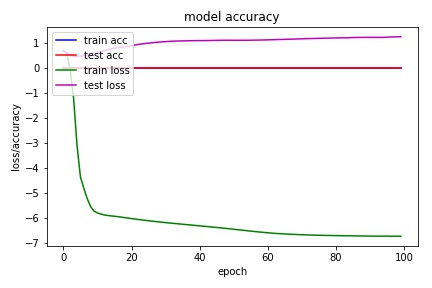
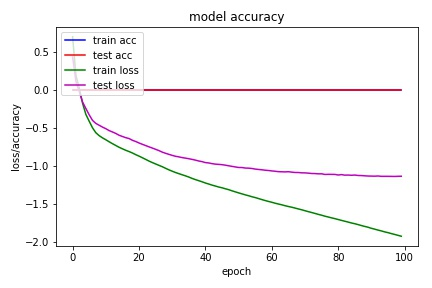
data processing

diff --git a/AutoEncoderMyData/myAE.py b/AutoEncoderMyData/myAE.py
@@ -4,16 +4,17 @@ from keras.regularizers import L1L2
 import pandas as pd
 import glob
 import numpy as np
+from scipy import stats
 from sklearn.preprocessing import StandardScaler
 from sklearn.model_selection import train_test_split
 import matplotlib.pyplot as plt
 
 # this is the size of our encoded representations
-encoding_dim = 960  # 32 floats -> compression of factor 24.5, assuming the input is 784 floats
+encoding_dim = 76  # 76 floats -> compression of factor 21, assuming the input is 1596 floats
 lambda_l1 = 0.00001
 
 # this is our input placeholder
-input_img = Input(shape=(3923, 57, 1))
+input_img = Input(shape=(28, 57, 1))
 flat_img = Flatten()(input_img)
 # "encoded" is the encoded representation of the input
 x = Dense(encoding_dim*3, activation='relu')(flat_img)
@@ -24,8 +25,8 @@ encoded = Dense(encoding_dim, activation='linear', activity_regularizer=L1L2(lam
 input_encoded = Input(shape=(encoding_dim,))
 x = Dense(encoding_dim*2, activation='relu')(input_encoded)
 x = Dense(encoding_dim*3, activation='relu')(x)
-flat_decoded = Dense(223611, activation='sigmoid')(x)
-decoded = Reshape((3923, 57, 1))(flat_decoded)
+flat_decoded = Dense(1596, activation='sigmoid')(x)
+decoded = Reshape((28, 57, 1))(flat_decoded)
 
 # this model maps an input to its encoded representation
 encoder = Model(input_img, encoded)
@@ -38,46 +39,42 @@ autoencoder = Model(input_img, decoder(encoder(input_img)))
 
 autoencoder.compile(optimizer='adam', loss='binary_crossentropy', metrics=['accuracy'])
 
+
+
+#DATA LOADING
 filenames = glob.glob('../myTrainingData/featuresOrig_*.csv')
 
 totalData = pd.DataFrame()
     
 for item in filenames:
-    # Load current dataset
     url = item
-    #choose only accelerometer data
     data = pd.read_csv(url, header = 0, engine='python')
     totalData = pd.concat([totalData, data], ignore_index=True)
 
 totalData = totalData.sort_values(['user'], ascending = 1)
 
-totalData.set_index(keys=['user'], drop=False,inplace=True)
-labels=totalData['user'].unique().tolist()
-
-usersData = {}
-usersDataLen = []
-
-for i in labels:
-     usersData["user{0}".format(i)] = totalData.loc[totalData.user==i]
-
-     usersDataLen.append(usersData["user{0}".format(i)].shape[0])
-     
-minUserSamples = min(usersDataLen)
-segments = []
 sc = StandardScaler()
 
-for i in labels:
-    usersData["user{0}".format(i)] = usersData["user{0}".format(i)].head(n=minUserSamples)
-    usersData["user{0}".format(i)] = sc.fit_transform(usersData["user{0}".format(i)])
+numRows = 28
+step = 10
+segments = []
+labels = []
 
-    segments.append(np.array(usersData["user{0}".format(i)][:,:-1]))
+for i in range(0, len(totalData) - numRows, step):
+    label = stats.mode(totalData['user'][i: i + numRows])[0][0]
+    segments.append(np.array(sc.fit_transform(totalData.iloc[i: i + numRows,:-1])))
+    labels.append(label)
+    
+segments = np.asarray(segments, dtype= np.float32)
+labels = np.asarray(labels, dtype= np.float32)
 
-labels = np.asarray(pd.get_dummies(labels), dtype = np.float32)
+
+
 
 x_train, x_test, y_train, y_test = train_test_split(segments, labels, test_size=0.2)
 
-x_train = np.reshape(x_train, (len(x_train), 3923, 57, 1))
-x_test  = np.reshape(x_test,  (len(x_test),  3923, 57, 1))
+x_train = np.reshape(x_train, (len(x_train), 28, 57, 1))
+x_test  = np.reshape(x_test,  (len(x_test),  28, 57, 1))
 print(x_train.shape)
 print(x_test.shape)
 

diff --git a/AutoEncoderMyData/dataProcessingForAE.py b/AutoEncoderMyData/dataProcessingForAE.py
@@ -2,6 +2,7 @@ import pandas as pd
 import glob
 import numpy as np
 from sklearn.preprocessing import StandardScaler
+from scipy import stats
 
 filenames = glob.glob('../myTrainingData/featuresOrig_*.csv')
 
@@ -16,25 +17,39 @@ for item in filenames:
 
 totalData = totalData.sort_values(['user'], ascending = 1)
 
-totalData.set_index(keys=['user'], drop=False,inplace=True)
-labels=totalData['user'].unique().tolist()
-
-usersData = {}
-usersDataLen = []
-
-for i in labels:
-     usersData["user{0}".format(i)] = totalData.loc[totalData.user==i]
-
-     usersDataLen.append(usersData["user{0}".format(i)].shape[0])
-     
-minUserSamples = min(usersDataLen)
-segments = []
+#totalData.set_index(keys=['user'], drop=False,inplace=True)
+#labels=totalData['user'].unique().tolist()
+#
+#usersData = {}
+#usersDataLen = []
+#
+#for i in labels:
+#     usersData["user{0}".format(i)] = totalData.loc[totalData.user==i]
+#
+#     usersDataLen.append(usersData["user{0}".format(i)].shape[0])
+#     
+#minUserSamples = min(usersDataLen)
+#segments = []
+#sc = StandardScaler()
+#
+#for i in labels:
+#    usersData["user{0}".format(i)] = usersData["user{0}".format(i)].head(n=minUserSamples)
+#    usersData["user{0}".format(i)] = sc.fit_transform(usersData["user{0}".format(i)])
+#
+#    segments.append(np.array(usersData["user{0}".format(i)][:,:-1]))
+#
+#labels = np.asarray(pd.get_dummies(labels), dtype = np.float32)
 sc = StandardScaler()
 
-for i in labels:
-    usersData["user{0}".format(i)] = usersData["user{0}".format(i)].head(n=minUserSamples)
-    usersData["user{0}".format(i)] = sc.fit_transform(usersData["user{0}".format(i)])
+numRows = 57
+step = 20
+segments = []
+labels = []
 
-    segments.append(np.array(usersData["user{0}".format(i)][:,:-1]))
-
-labels = np.asarray(pd.get_dummies(labels), dtype = np.float32)
+for i in range(0, len(totalData) - numRows, step):
+    label = stats.mode(totalData['user'][i: i + numRows])[0][0]
+    segments.append(np.array(sc.fit_transform(totalData.iloc[i: i + numRows,:-1])))
+    labels.append(label)
+    
+segments = np.asarray(segments, dtype= np.float32)
+labels = np.asarray(labels, dtype= np.float32)
